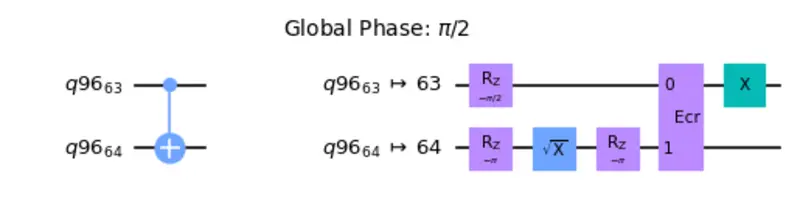
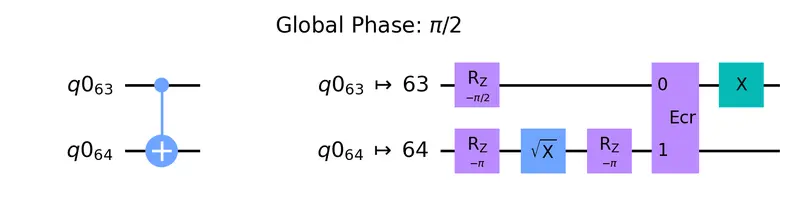
Deploying to gh-pages from @ soon-teh/soon-teh.github.io@e9f47beab860db6c6df50020cc8479e33046d977 🚀

Changed region(s): [[0.375, 0.297, 1.0, 0.8614], [0.0625, 0.3564, 0.2812, 0.8317], [0.3438, 0.0594, 0.5938, 0.1782]]

diff --git a/blog/2023/quantum-challenge-spring-ghz/index.html b/blog/2023/quantum-challenge-spring-ghz/index.html
@@ -202,16 +202,19 @@
 <p>The <code class="language-plaintext highlighter-rouge">ibm_sherbrooke</code> system assigned to the challenge is a <a href="https://research.ibm.com/blog/eagle-quantum-error-mitigation" rel="external nofollow noopener" target="_blank">127-qubit Eagle processor optimized for error mitigation</a>. Instead of CNOT gates, unidirectional <a href="https://thequantumaviary.blogspot.com/2021/07/how-cross-resonance-gate-works.html" rel="external nofollow noopener" target="_blank">echoed cross-resonance (ECR) gates</a> were implemented due to their simplicity and noise resilience. The coupling map of the device is shown below as a directional graph.</p>
 
 <div class="l-body">
-  <img class="img-fluid" src="assets/img/2023-05-30/directional-coupling.png">&lt;/img&gt;
+  <img class="img-fluid" src="/assets/img/2023-05-30/directional-coupling.png">
 </div>
 
-<p>The implementation of these unidirectional ECR gates resulted in a interesting CNOT gate transpilation. Since CNOT gate is not a symmetrical gate, the transpilation depends on the direction of the CNOT gate.</p>
+<p>The implementation of these unidirectional ECR gates resulted in an interesting CNOT gate transpilation. Since CNOT gate is not a symmetrical gate, the transpilation depends on the direction of the CNOT gate. Meanwhile, CNOT gate is transpiled into ECR and single qubit gate up to a global phase shift.</p>
 
 <div class="l-body">
-  <img class="img-fluid" src="/assets/img/2023-05-30/cnot-transpile1.png">&lt;/img&gt;
+  <img class="img-fluid" src="/assets/img/2023-05-30/cnot-transpile1.png">
+</div>
+<div class="l-body">
+  <img class="img-fluid" src="/assets/img/2023-05-30/cnot-transpile2.png">
 </div>
 
-<p>For instance, the unidirectional ECR gate between the qubit 63 and 64 is implemented in the forward direction from 63 to 64.</p>
+<p>For instance, the unidirectional ECR gate between the qubit $q_{63}$ and $q_{64}$ is implemented in the forward direction from $q_{63}$ to $q_{64}$. The CNOT gate transpilation with control at $q_{63}$ and target at $q_{64}$ resulted in only a depth 5 circuit while depth 7 when done in reversed.</p>
 
 <h3 id="generating-a-large-ghz-state">Generating a Large GHZ State</h3>
 
